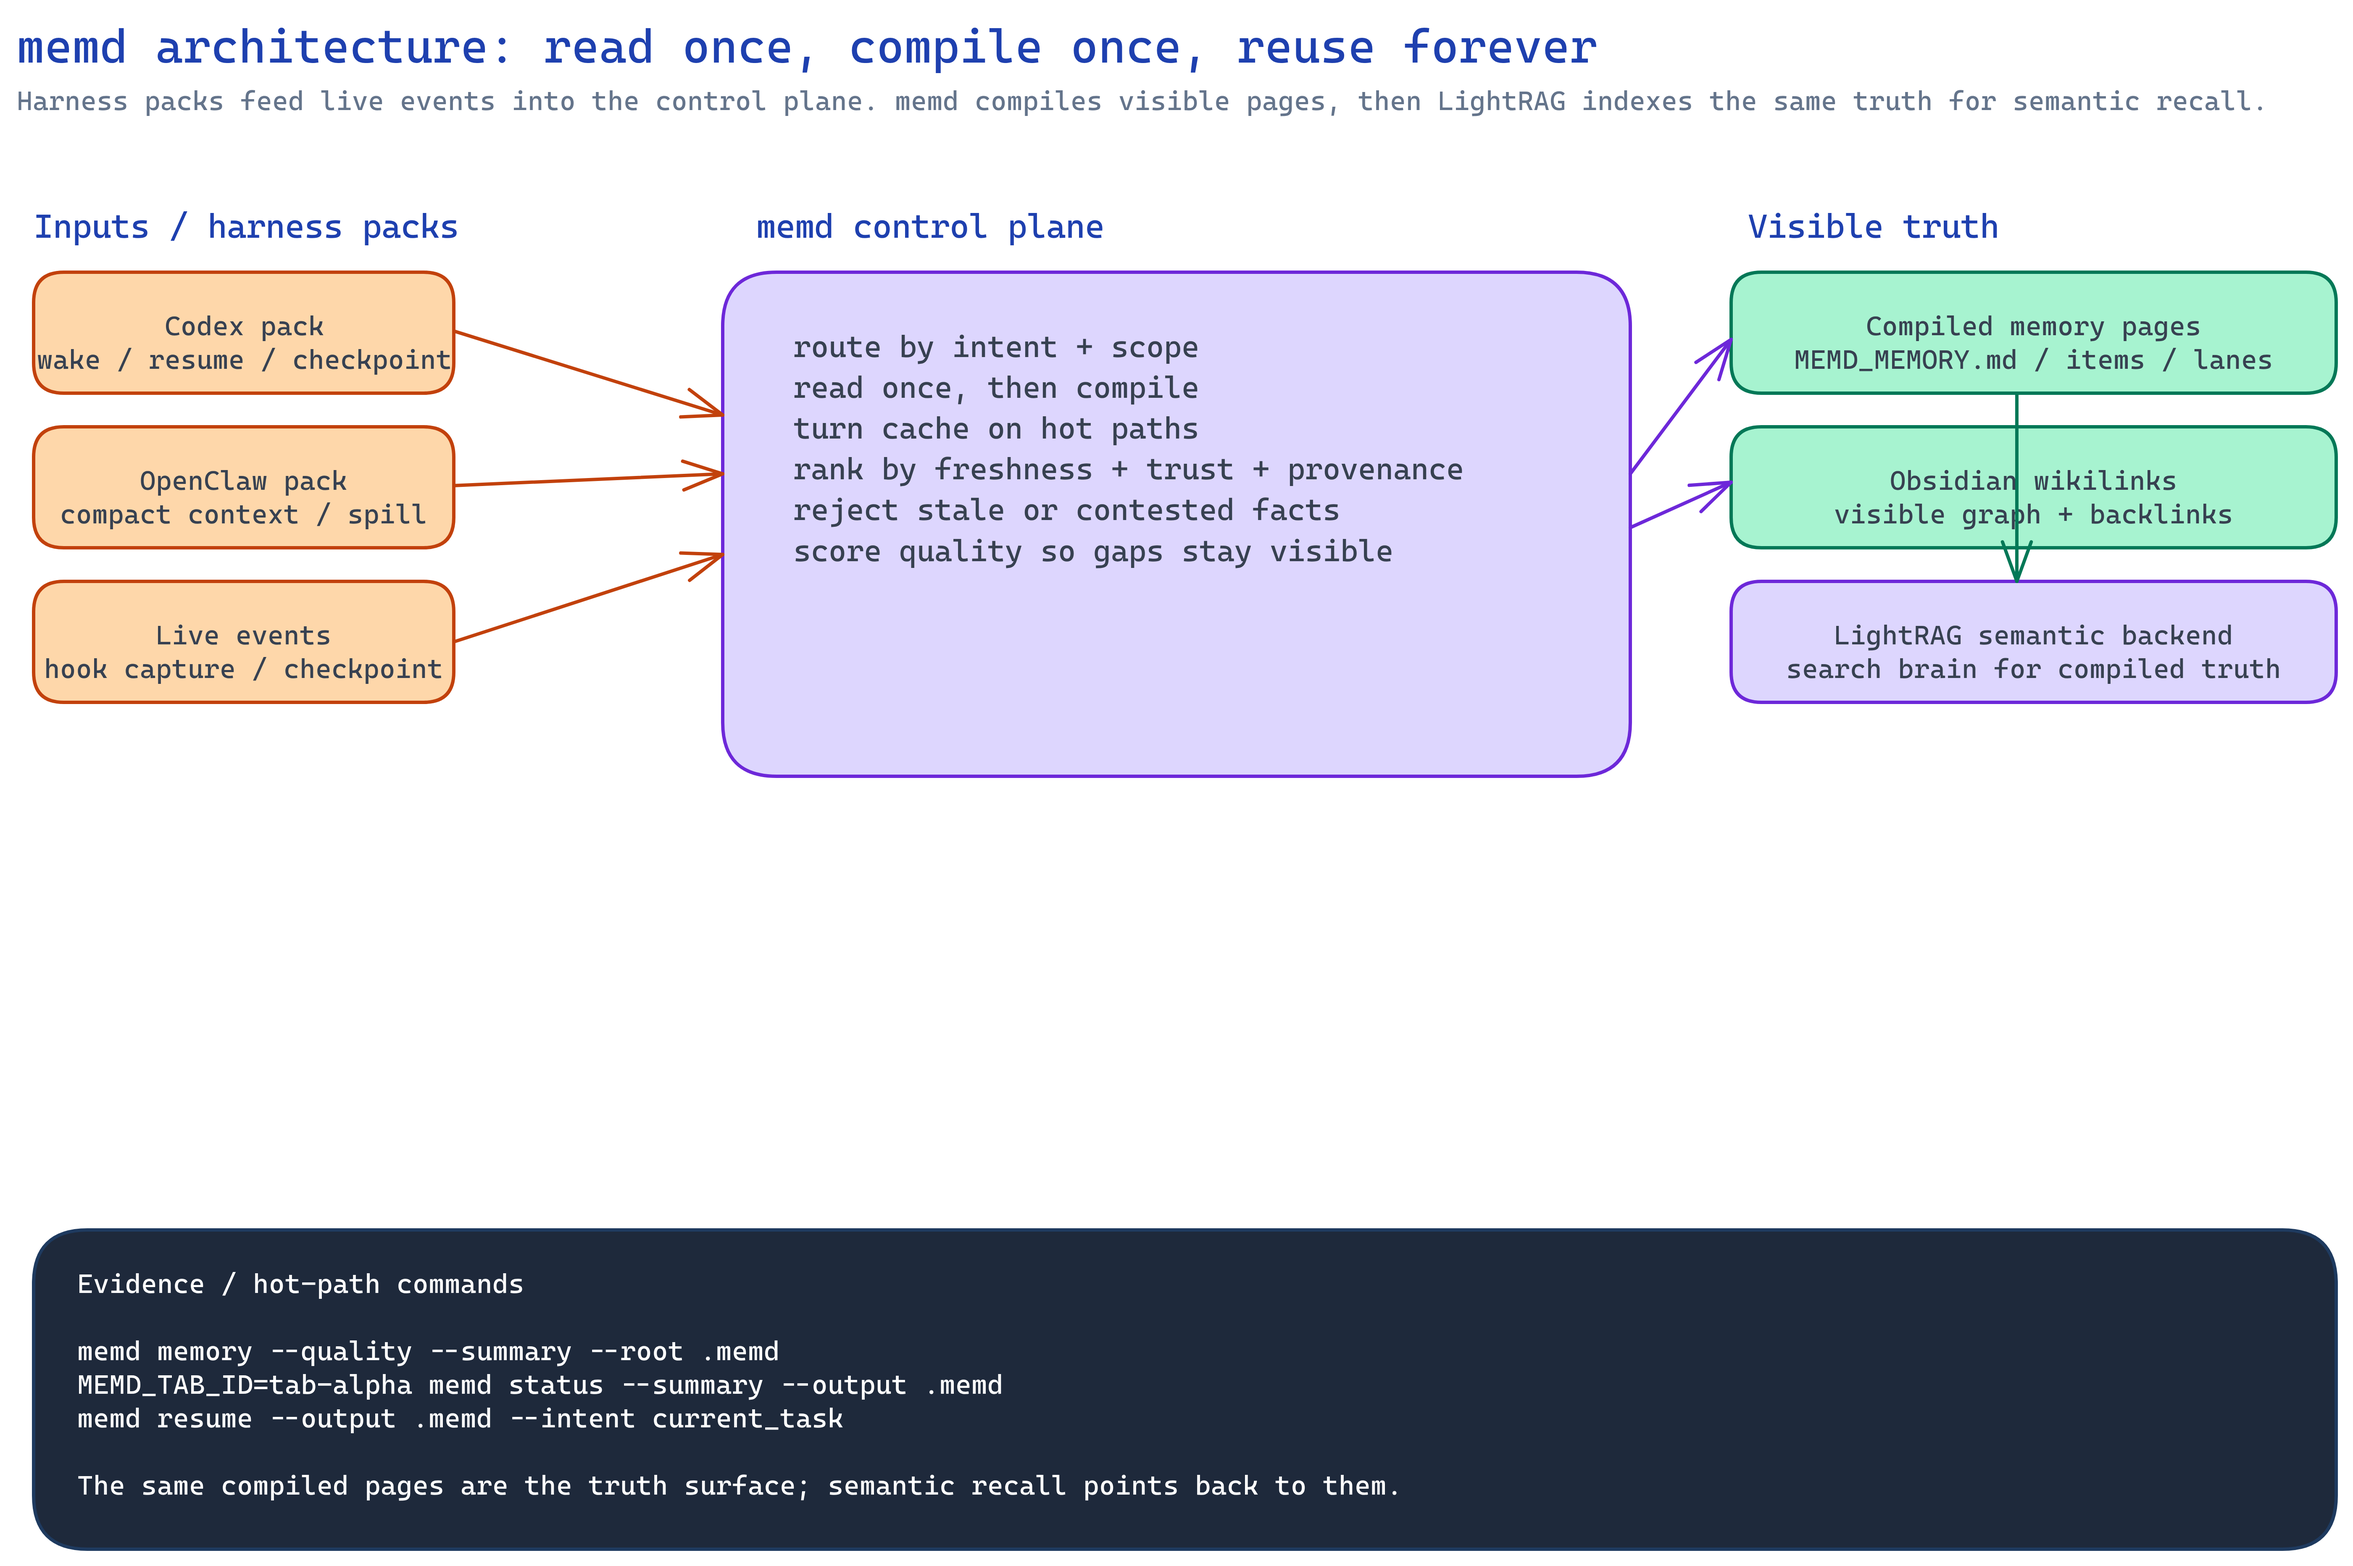
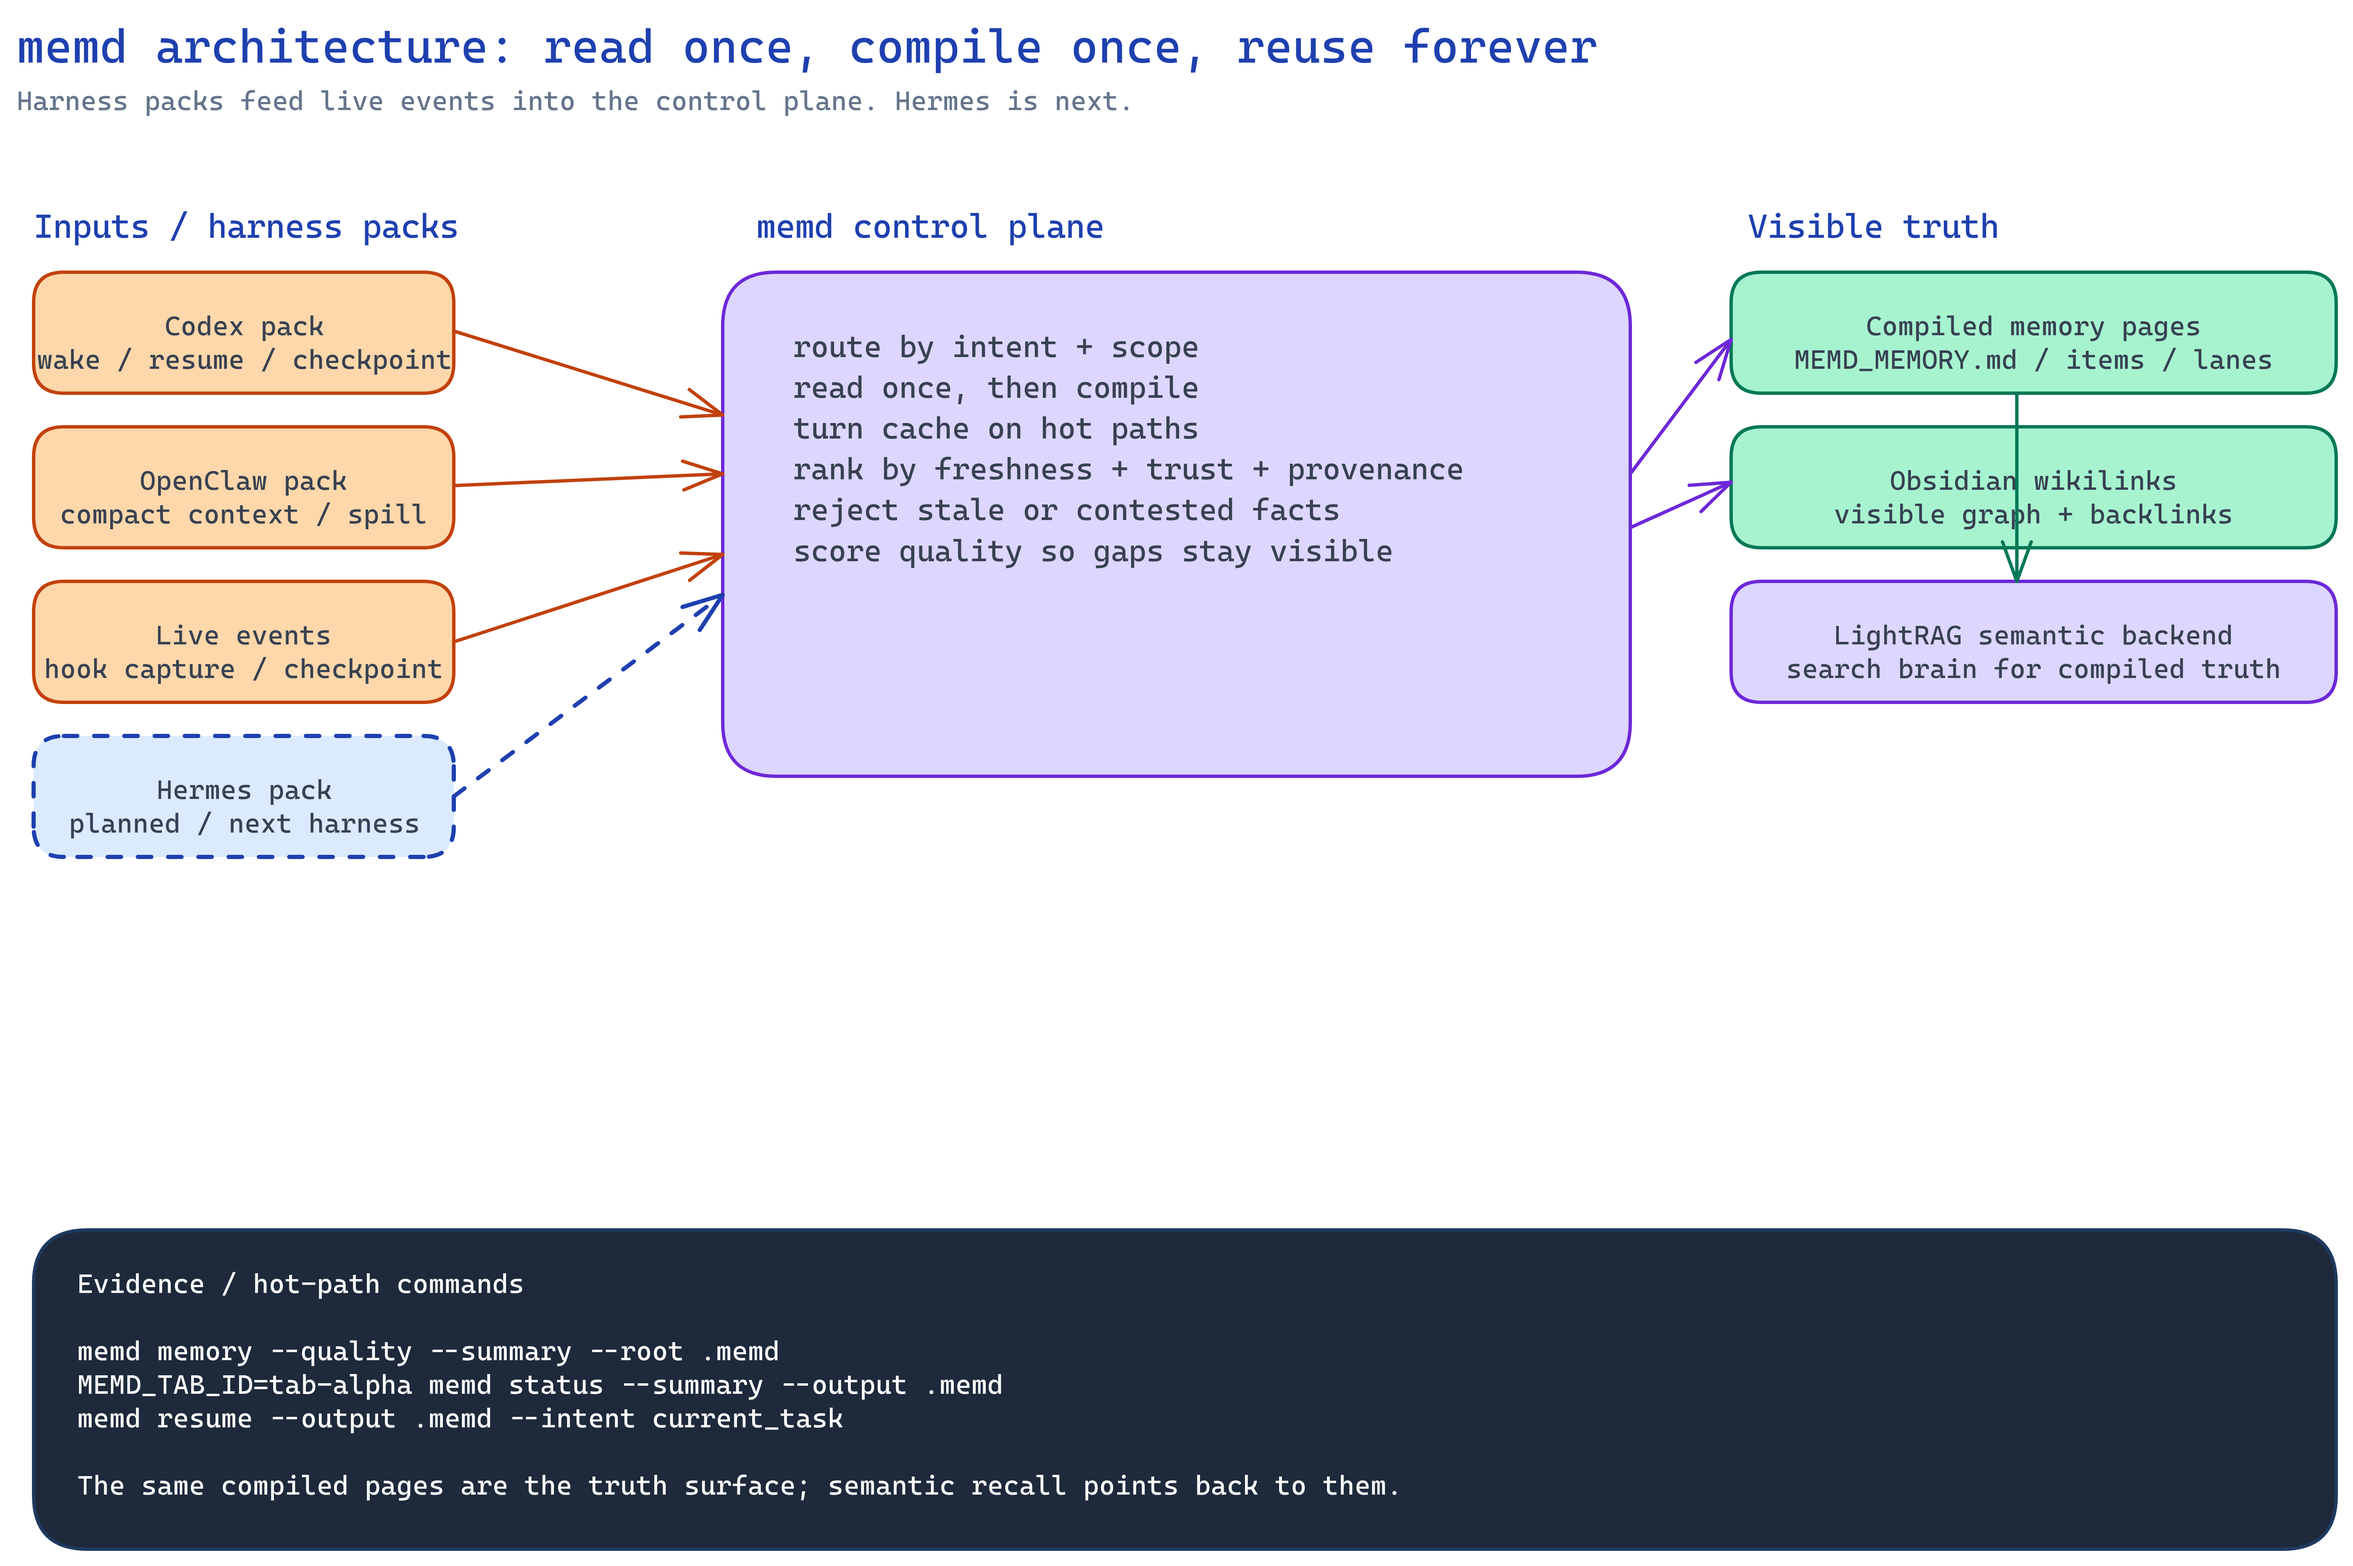
docs: add hermes to architecture diagram

diff --git a/docs/architecture.md b/docs/architecture.md
@@ -40,6 +40,7 @@ Current packs:
 
 - Codex
 - OpenClaw
+- Hermes is the next planned harness pack.
 
 ### Control Plane
 
